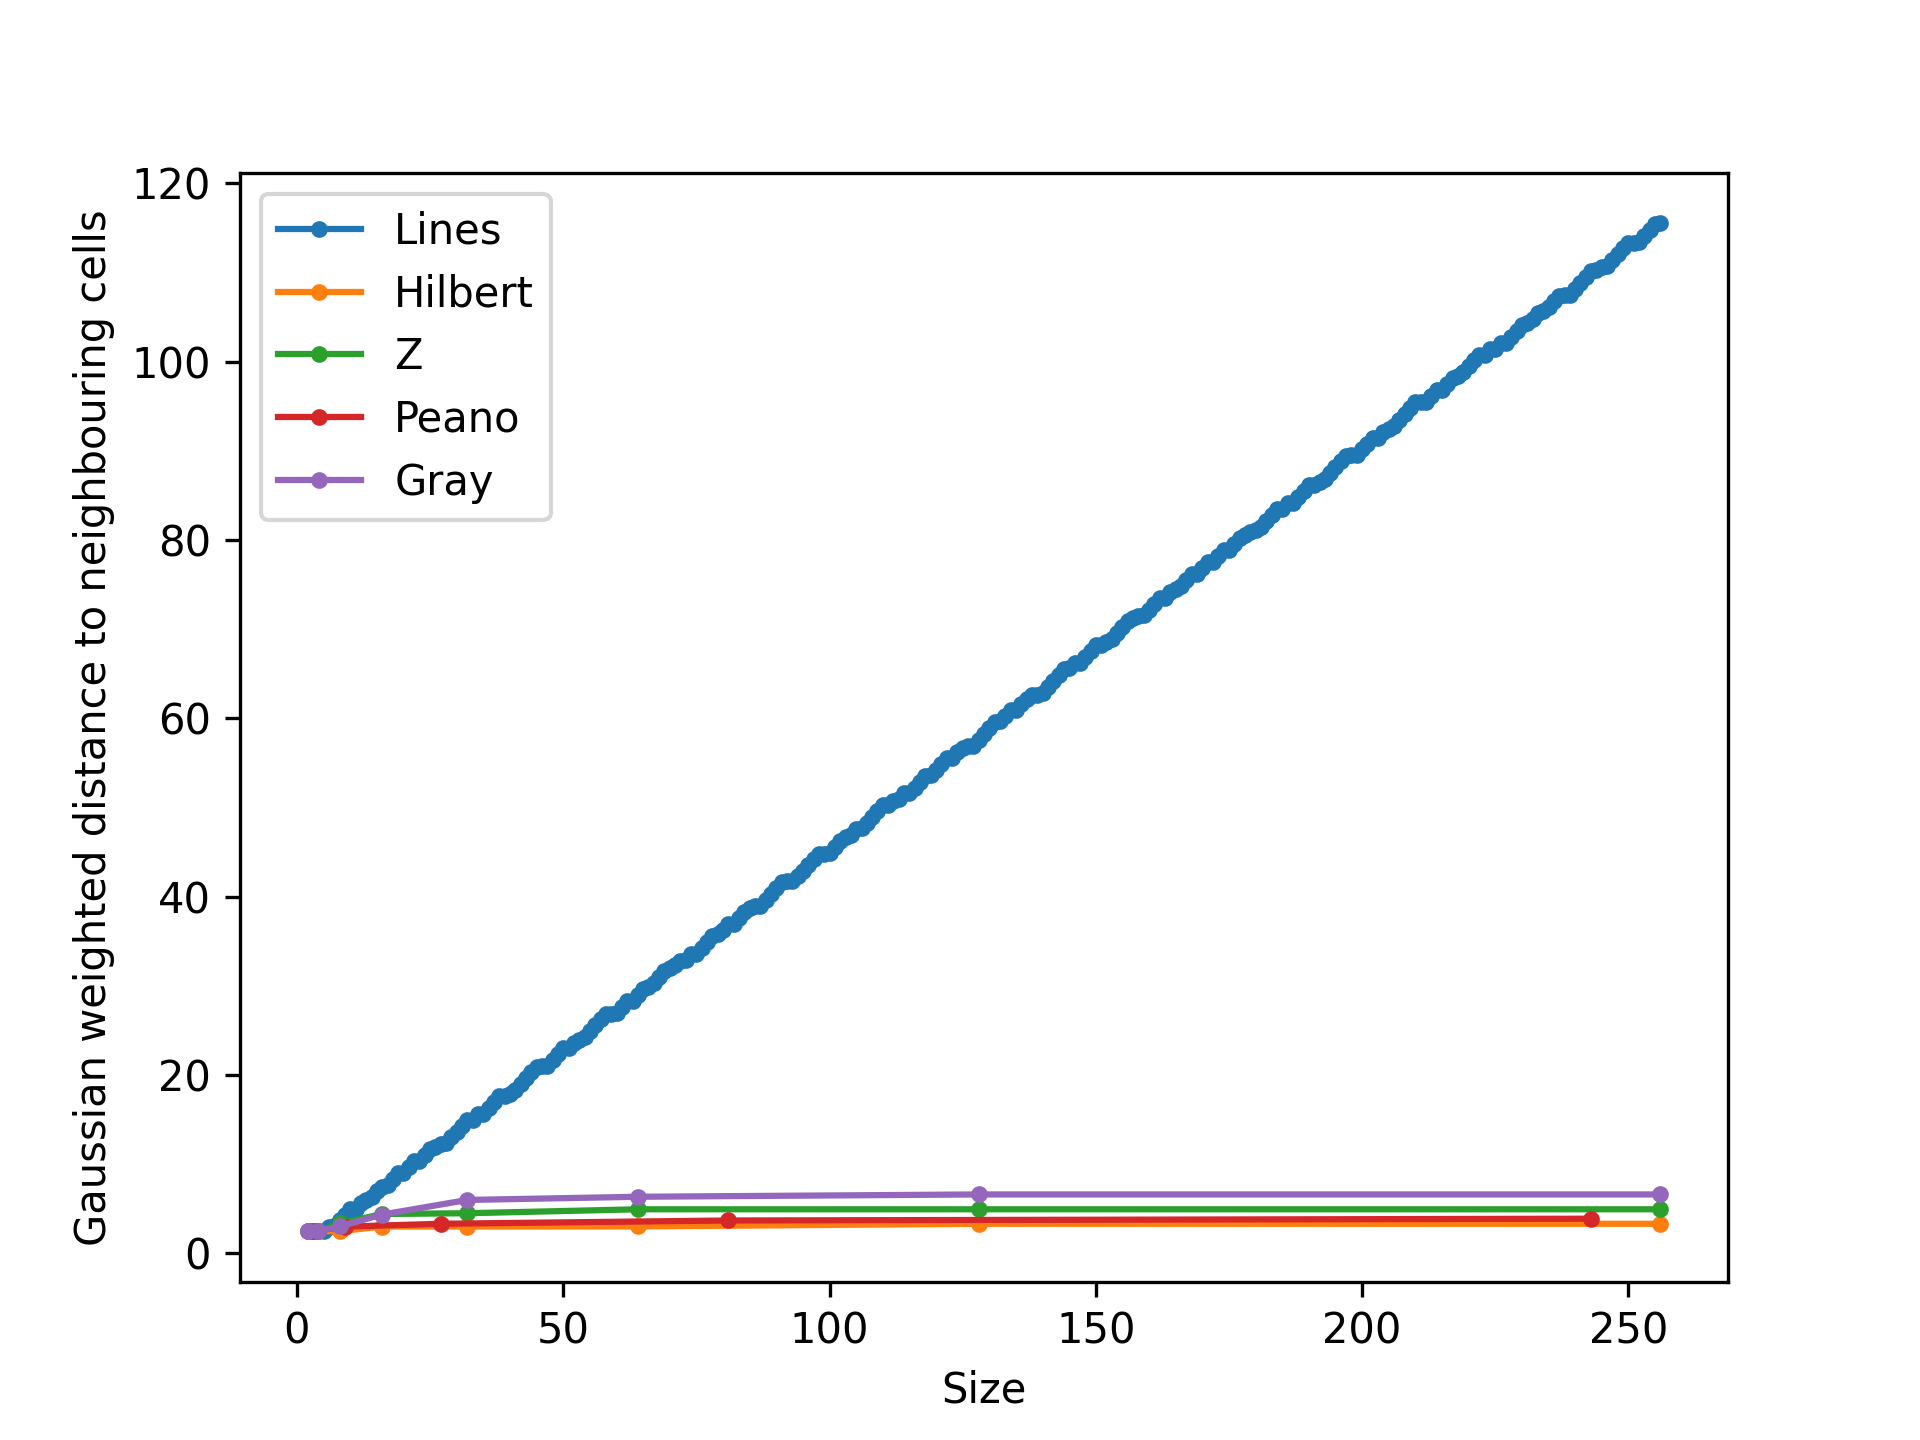
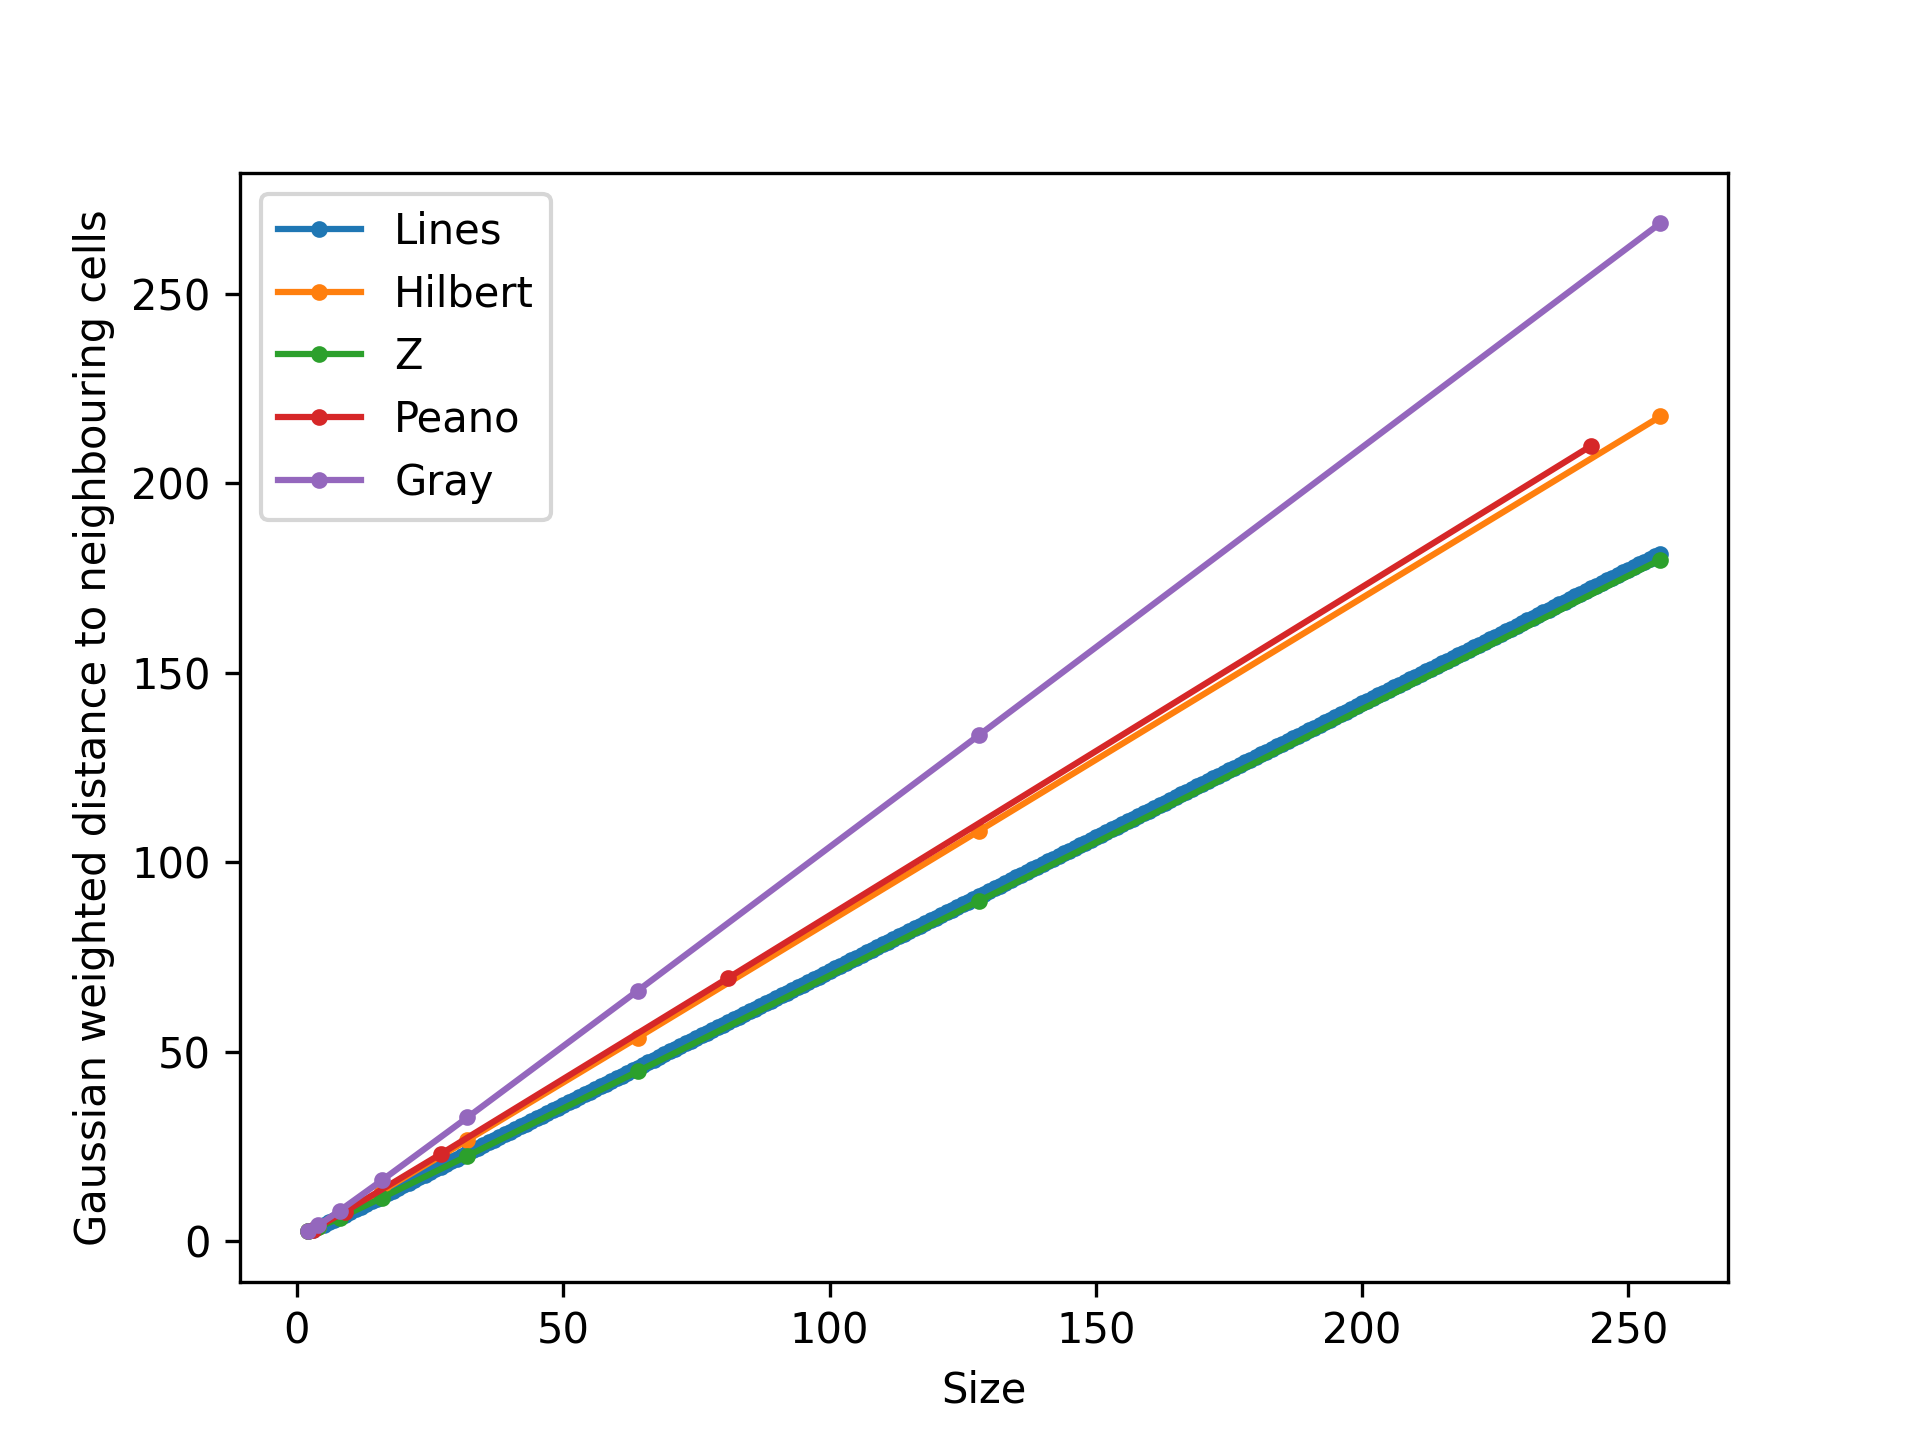
optimization

diff --git a/main.py b/main.py
@@ -85,26 +85,8 @@ def gaussian_kernel(l=5, sig=1.):
     return kernel / np.sum(kernel)
 
 
-def calculate_average_distance(m):
-    logging.debug(f"Calculating average distance for matrix of size {m.shape}")
-
-    len = m.shape[0]
-    sum = 0
-
-    # calculate distance to right neighbor
-    for i in range(len-1):
-        for j in range(len):
-            sum += abs(m[i][j] - m[i+1][j])
-
-    # calculate distance to bottom neighbor
-    for i in range(len):
-        for j in range(len-1):
-            sum += abs(m[i][j] - m[i][j+1])
-
-    return sum / (2 * (len-1) * len)
-
-def calculate_median_distance(m):
-    logging.debug(f"Calculating median distance for matrix of size {m.shape}")
+def calculate_direct_distances(m):
+    logging.debug(f"Calculating direct distances for matrix of size {m.shape}")
 
     len = m.shape[0]
     distances = []
@@ -119,10 +101,10 @@ def calculate_median_distance(m):
         for j in range(len-1):
             distances.append(abs(m[i][j] - m[i][j+1]))
 
-    return np.median(distances)
+    return distances
 
-def calculate_weighted_distance(m, kernel):
-    logging.debug(f"Calculating weighted distance for matrix of size {m.shape} with kernel of size {kernel.shape}")
+def calculate_weighted_distances(m, kernel):
+    logging.debug(f"Calculating weighted distances for matrix of size {m.shape} with kernel of size {kernel.shape}")
 
     len = m.shape[0]
     kernel_size = kernel.shape[0]
@@ -140,7 +122,7 @@ def calculate_weighted_distance(m, kernel):
                     if x >= 0 and x < len and y >= 0 and y < len:
                         distances.append(abs(m[i][j] - m[x][y]) * kernel[k][l])
     
-    return np.average(distances)
+    return distances
 
 
 if __name__ == "__main__":
@@ -156,29 +138,34 @@ if __name__ == "__main__":
     gkern = gaussian_kernel(*gkern_param)
 
     logging.info("Calculating Lines plot (may take a while)")
-    lines_average_data = [(i, calculate_average_distance(Lines(i).get_matrix())) for i in range(2, max_size+1)]
-    lines_median_data = [(i, calculate_median_distance(Lines(i).get_matrix())) for i in range(2, max_size+1)]
-    lines_gaussian_data = [(i, calculate_weighted_distance(Lines(i).get_matrix(), gkern)) for i in range(2, max_size+1)]
+    lines_direct_distances = [(i, calculate_direct_distances(Lines(i).get_matrix())) for i in range(2, max_size+1)]
+    lines_average_data = [(i, np.average(direct_distances)) for i, direct_distances in lines_direct_distances]
+    lines_median_data = [(i, np.median(direct_distances)) for i, direct_distances in lines_direct_distances]
+    lines_gaussian_data = [(i, np.average(calculate_weighted_distances(Lines(i).get_matrix(), gkern))) for i in range(2, max_size+1)]
 
     logging.info("Calculating Hilbert plot")
-    hilbert_average_data = [(2**i, calculate_average_distance(Hilbert(i).get_matrix())) for i in range(1, max_size_log2+1)]
-    hilbert_median_data = [(2**i, calculate_median_distance(Hilbert(i).get_matrix())) for i in range(1, max_size_log2+1)]
-    hilbert_gaussian_data = [(2**i, calculate_weighted_distance(Hilbert(i).get_matrix(), gkern)) for i in range(1, max_size_log2+1)]
+    hilbert_direct_distances = [(i, calculate_direct_distances(Hilbert(i).get_matrix())) for i in range(1, max_size_log2+1)]
+    hilbert_average_data = [(2**i, np.average(direct_distances)) for i, direct_distances in hilbert_direct_distances]
+    hilbert_median_data = [(2**i, np.median(direct_distances)) for i, direct_distances in hilbert_direct_distances]
+    hilbert_gaussian_data = [(2**i, np.average(calculate_weighted_distances(Hilbert(i).get_matrix(), gkern))) for i in range(1, max_size_log2+1)]
 
     logging.info("Calculating Z plot")
-    z_average_data = [(2**i, calculate_average_distance(Z(i).get_matrix())) for i in range(1, max_size_log2+1)]
-    z_median_data = [(2**i, calculate_median_distance(Z(i).get_matrix())) for i in range(1, max_size_log2+1)]
-    z_gaussian_data = [(2**i, calculate_weighted_distance(Z(i).get_matrix(), gkern)) for i in range(1, max_size_log2+1)]
+    z_direct_distances = [(i, calculate_direct_distances(Z(i).get_matrix())) for i in range(1, max_size_log2+1)]
+    z_average_data = [(2**i, np.average(direct_distances)) for i, direct_distances in z_direct_distances]
+    z_median_data = [(2**i, np.median(direct_distances)) for i, direct_distances in z_direct_distances]
+    z_gaussian_data = [(2**i, np.average(calculate_weighted_distances(Z(i).get_matrix(), gkern))) for i in range(1, max_size_log2+1)]
 
     logging.info("Calculating Peano plot")
-    peano_average_data = [(3**i, calculate_average_distance(Peano(i).get_matrix())) for i in range(1, max_size_log3+1)]
-    peano_median_data = [(3**i, calculate_median_distance(Peano(i).get_matrix())) for i in range(1, max_size_log3+1)]
-    peano_gaussian_data = [(3**i, calculate_weighted_distance(Peano(i).get_matrix(), gkern)) for i in range(1, max_size_log3+1)]
+    peano_direct_distances = [(i, calculate_direct_distances(Peano(i).get_matrix())) for i in range(1, max_size_log3+1)]
+    peano_average_data = [(3**i, np.average(direct_distances)) for i, direct_distances in peano_direct_distances]
+    peano_median_data = [(3**i, np.median(direct_distances)) for i, direct_distances in peano_direct_distances]
+    peano_gaussian_data = [(3**i, np.average(calculate_weighted_distances(Peano(i).get_matrix(), gkern))) for i in range(1, max_size_log3+1)]
 
     logging.info("Calculating Gray plot")
-    gray_average_data = [(2**i, calculate_average_distance(Gray(i).get_matrix())) for i in range(1, max_size_log2+1)]
-    gray_median_data = [(2**i, calculate_median_distance(Gray(i).get_matrix())) for i in range(1, max_size_log2+1)]
-    gray_gaussian_data = [(2**i, calculate_weighted_distance(Gray(i).get_matrix(), gkern)) for i in range(1, max_size_log2+1)]
+    gray_direct_distances = [(i, calculate_direct_distances(Gray(i).get_matrix())) for i in range(1, max_size_log2+1)]
+    gray_average_data = [(2**i, np.average(direct_distances)) for i, direct_distances in gray_direct_distances]
+    gray_median_data = [(2**i, np.median(direct_distances)) for i, direct_distances in gray_direct_distances]
+    gray_gaussian_data = [(2**i, np.average(calculate_weighted_distances(Gray(i).get_matrix(), gkern))) for i in range(1, max_size_log2+1)]
 
     logging.info("Plotting average distance curves")
     plt.plot(*zip(*lines_average_data), label="Lines", marker=".")
